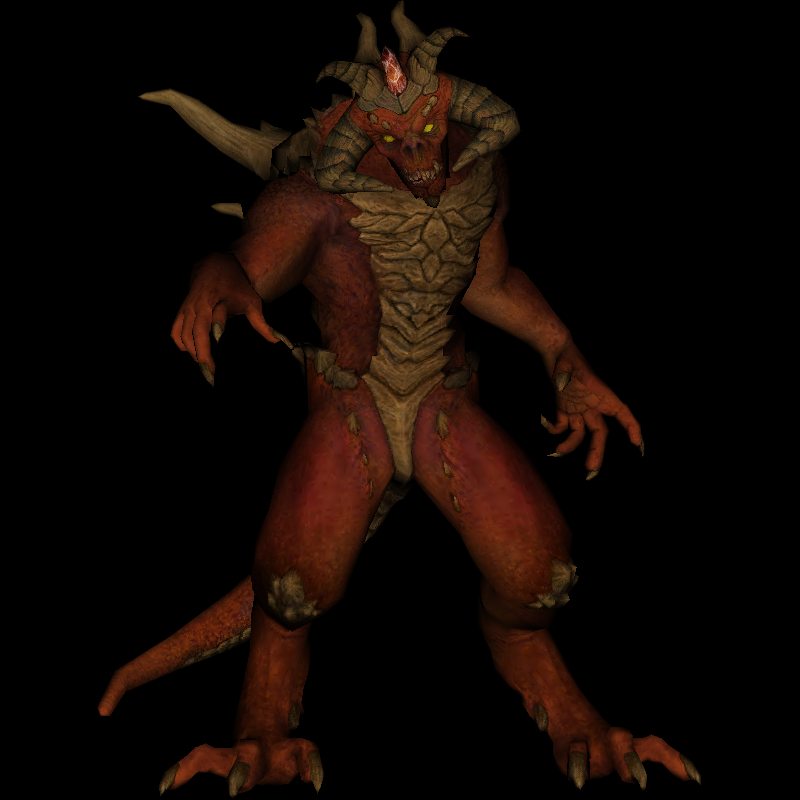
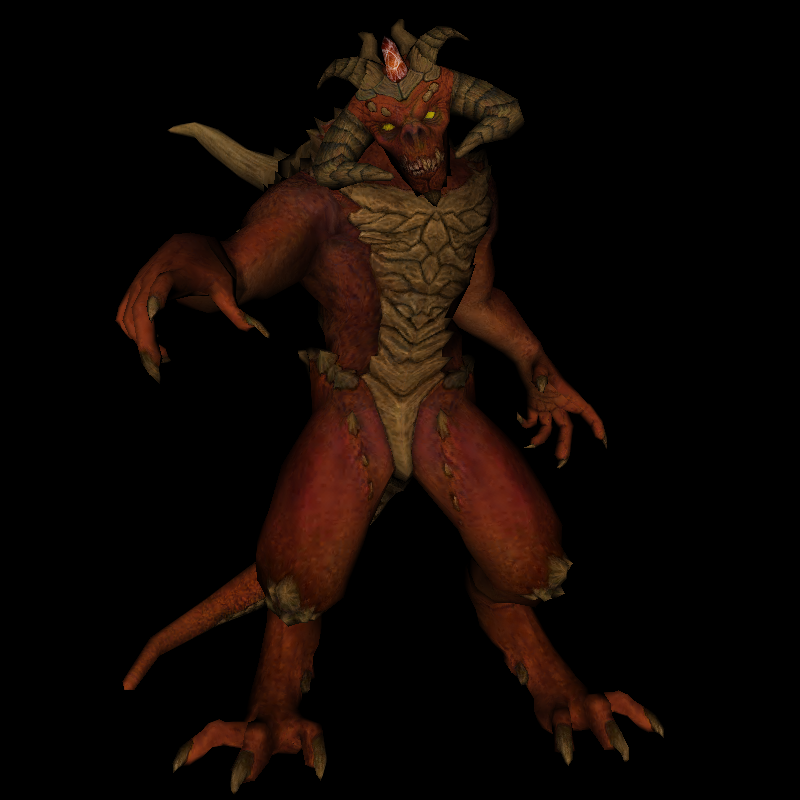
Add perspective projection on z-axis

diff --git a/src/main/kotlin/fr/oyashirox/Renderer.kt b/src/main/kotlin/fr/oyashirox/Renderer.kt
@@ -3,6 +3,7 @@
 package fr.oyashirox
 
 import fr.oyashirox.math.Color
+import fr.oyashirox.math.Matrix
 import fr.oyashirox.math.Point
 import fr.oyashirox.math.Vector
 import fr.oyashirox.model.Model
@@ -12,14 +13,27 @@ import kotlin.random.Random
 /** Use this class to render a model on a canvas*/
 @Suppress("MemberVisibilityCanBePrivate")
 class Renderer(val canvas: Canvas) {
-    val halfWidth = (canvas.image.width - 1) / 2.0f
-    val halfHeight = (canvas.image.height - 1) / 2.0f
+    val halfWidth = (canvas.image.width - 1) / 2.0
+    val halfHeight = (canvas.image.height - 1) / 2.0
+    val distance = 3.0
+    val viewport = Matrix(4, true).apply {
+        // diagonal
+        // Scale [-1,1] to [-halfWidth,halfWidth]
+        this[0, 0] = halfWidth
+        this[1, 1] = halfHeight
 
-    private fun mapToScreen(world: Vector) = Point(
-        ((world.x + 1) * halfWidth).toInt(),
-        ((world.y + 1) * halfHeight).toInt(),
-        world.z
-    )
+        // rencenter so we get into [0, width]
+        this[0, 3] = halfWidth
+        this[1, 3] = halfHeight
+    }
+    val projection = Matrix(4, true).apply {
+        this[3, 2] = -1.0 / distance
+    }
+
+    private fun mapToScreen(world: Vector): Point {
+        val vector = (viewport * projection * world.toMatrix()).toVector()
+        return vector.toPoint()
+    }
 
     fun renderWireframeModel(model: Model) {
         model.faces.forEach { face ->

diff --git a/src/main/kotlin/fr/oyashirox/math/Matrix.kt b/src/main/kotlin/fr/oyashirox/math/Matrix.kt
@@ -1,0 +1,33 @@
+package fr.oyashirox.math
+
+@Suppress("MemberVisibilityCanBePrivate")
+/** Square matrix only for now*/
+class Matrix(val size: Int = 4, identity: Boolean = true) {
+    val values = DoubleArray(size * size) { if (identity && it % size == it / size) 1.0 else 0.0 }
+    operator fun get(row: Int, col: Int) = values[col + row * size]
+    operator fun set(row: Int, col: Int, value: Double) {
+        values[col + row * size] = value
+    }
+
+    operator fun get(row: Int) = values.slice((row * size)..(((row + 1) * size) - 1))
+
+    operator fun times(other: Matrix): Matrix {
+        if (size != other.size) throw IllegalStateException("Matrix should be of the same size")
+        val result = Matrix(size)
+        for (x in 0 until size) {
+            for (y in 0 until size) {
+                result[x, y] = 0.0
+                for (z in 0 until size) {
+                    result[x, y] += this[x, z] * other[z, y]
+                }
+            }
+        }
+        return result
+    }
+
+    fun toVector() = Vector(
+        this[0,0] / this[3, 0],
+        this[1,0] / this[3, 0],
+        this[2,0] / this[3, 0]
+    )
+}

diff --git a/src/main/kotlin/fr/oyashirox/math/Vector.kt b/src/main/kotlin/fr/oyashirox/math/Vector.kt
@@ -23,9 +23,9 @@ data class Vector(var x: Double = 0.0, var y: Double = 0.0, var z: Double = 0.0)
     inline fun distanceTo(o: Vector) = (this - o).length()
     inline infix fun dot(o: Vector) = x * o.x + y * o.y + z * o.z
     inline infix fun cross(o: Vector) = Vector(
-            y * o.z - z * o.y,
-            z * o.x - x * o.z,
-            x * o.y - y * o.x
+        y * o.z - z * o.y,
+        z * o.x - x * o.z,
+        x * o.y - y * o.x
     )
 
     fun normalize(): Vector {
@@ -34,6 +34,15 @@ data class Vector(var x: Double = 0.0, var y: Double = 0.0, var z: Double = 0.0)
     }
 
     fun toColor() = Color(x, y, z)
+    fun toMatrix() = Matrix(4, false).apply {
+        this[0, 0] = x
+        this[1, 0] = y
+        this[2, 0] = z
+        this[3, 0] = 1.0
+    }
+
+    fun toPoint() = Point(x.toInt(), y.toInt(), z)
+
     inline fun sqrt() = Vector(Math.sqrt(x), Math.sqrt(y), Math.sqrt(z))
 
     /** @param normal should be unit vector.*/

diff --git a/src/main/kotlin/fr/oyashirox/Canvas.kt b/src/main/kotlin/fr/oyashirox/Canvas.kt
@@ -114,6 +114,12 @@ class Canvas(val image: Image) {
 
         for (x in min.x..max.x) {
             for (y in min.y..max.y) {
+                val index = x + y * image.width
+                if (index < 0 || index > image.data.size - 1 ||
+                    x < 0 || x > image.width - 1 ||
+                    y < 0 || y > image.height - 1
+                ) continue
+
                 val barycenter = barycentric(triangle, Point(x, y))
                 if (barycenter.x < 0 || barycenter.y < 0 || barycenter.z < 0) continue
                 val normal = interpolate(barycenter, face.normals).normalize()
@@ -124,7 +130,6 @@ class Canvas(val image: Image) {
 
                 val color = intensity * texture[textCoords]
 
-                val index = x + y * image.width
                 if (zBuffer[index] < zValue) {
                     zBuffer[index] = zValue
                     image[x, y] = color
